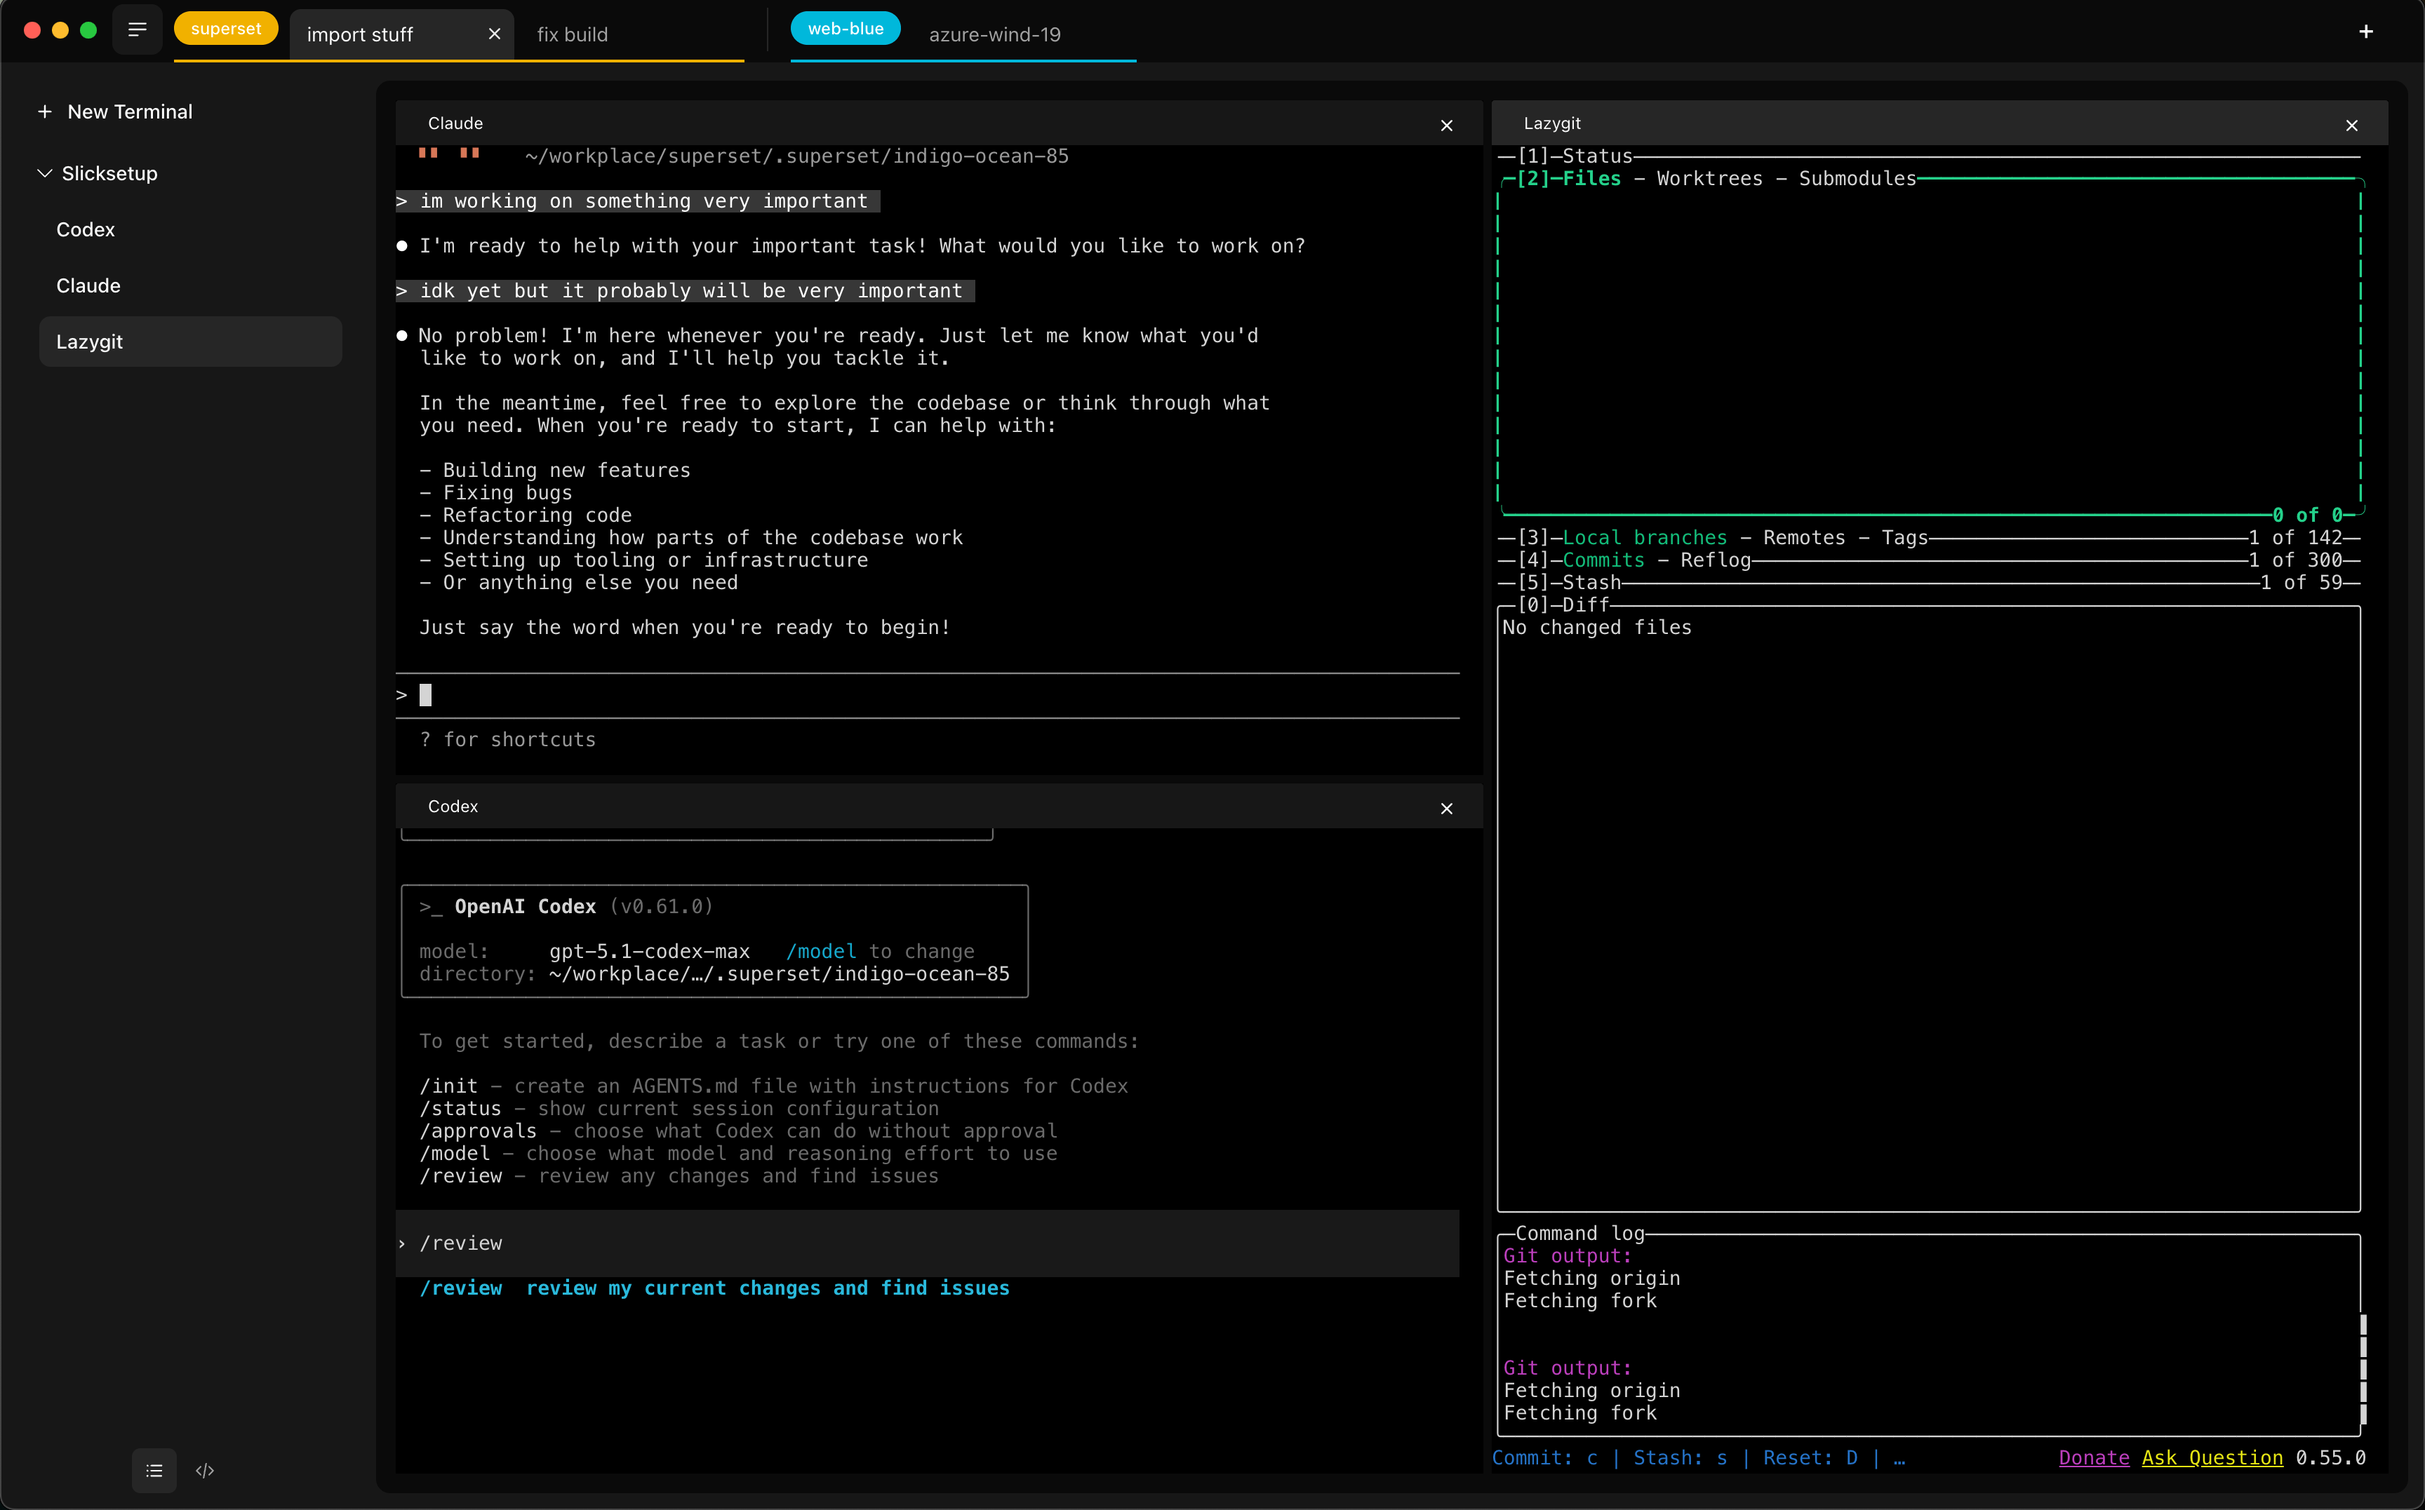
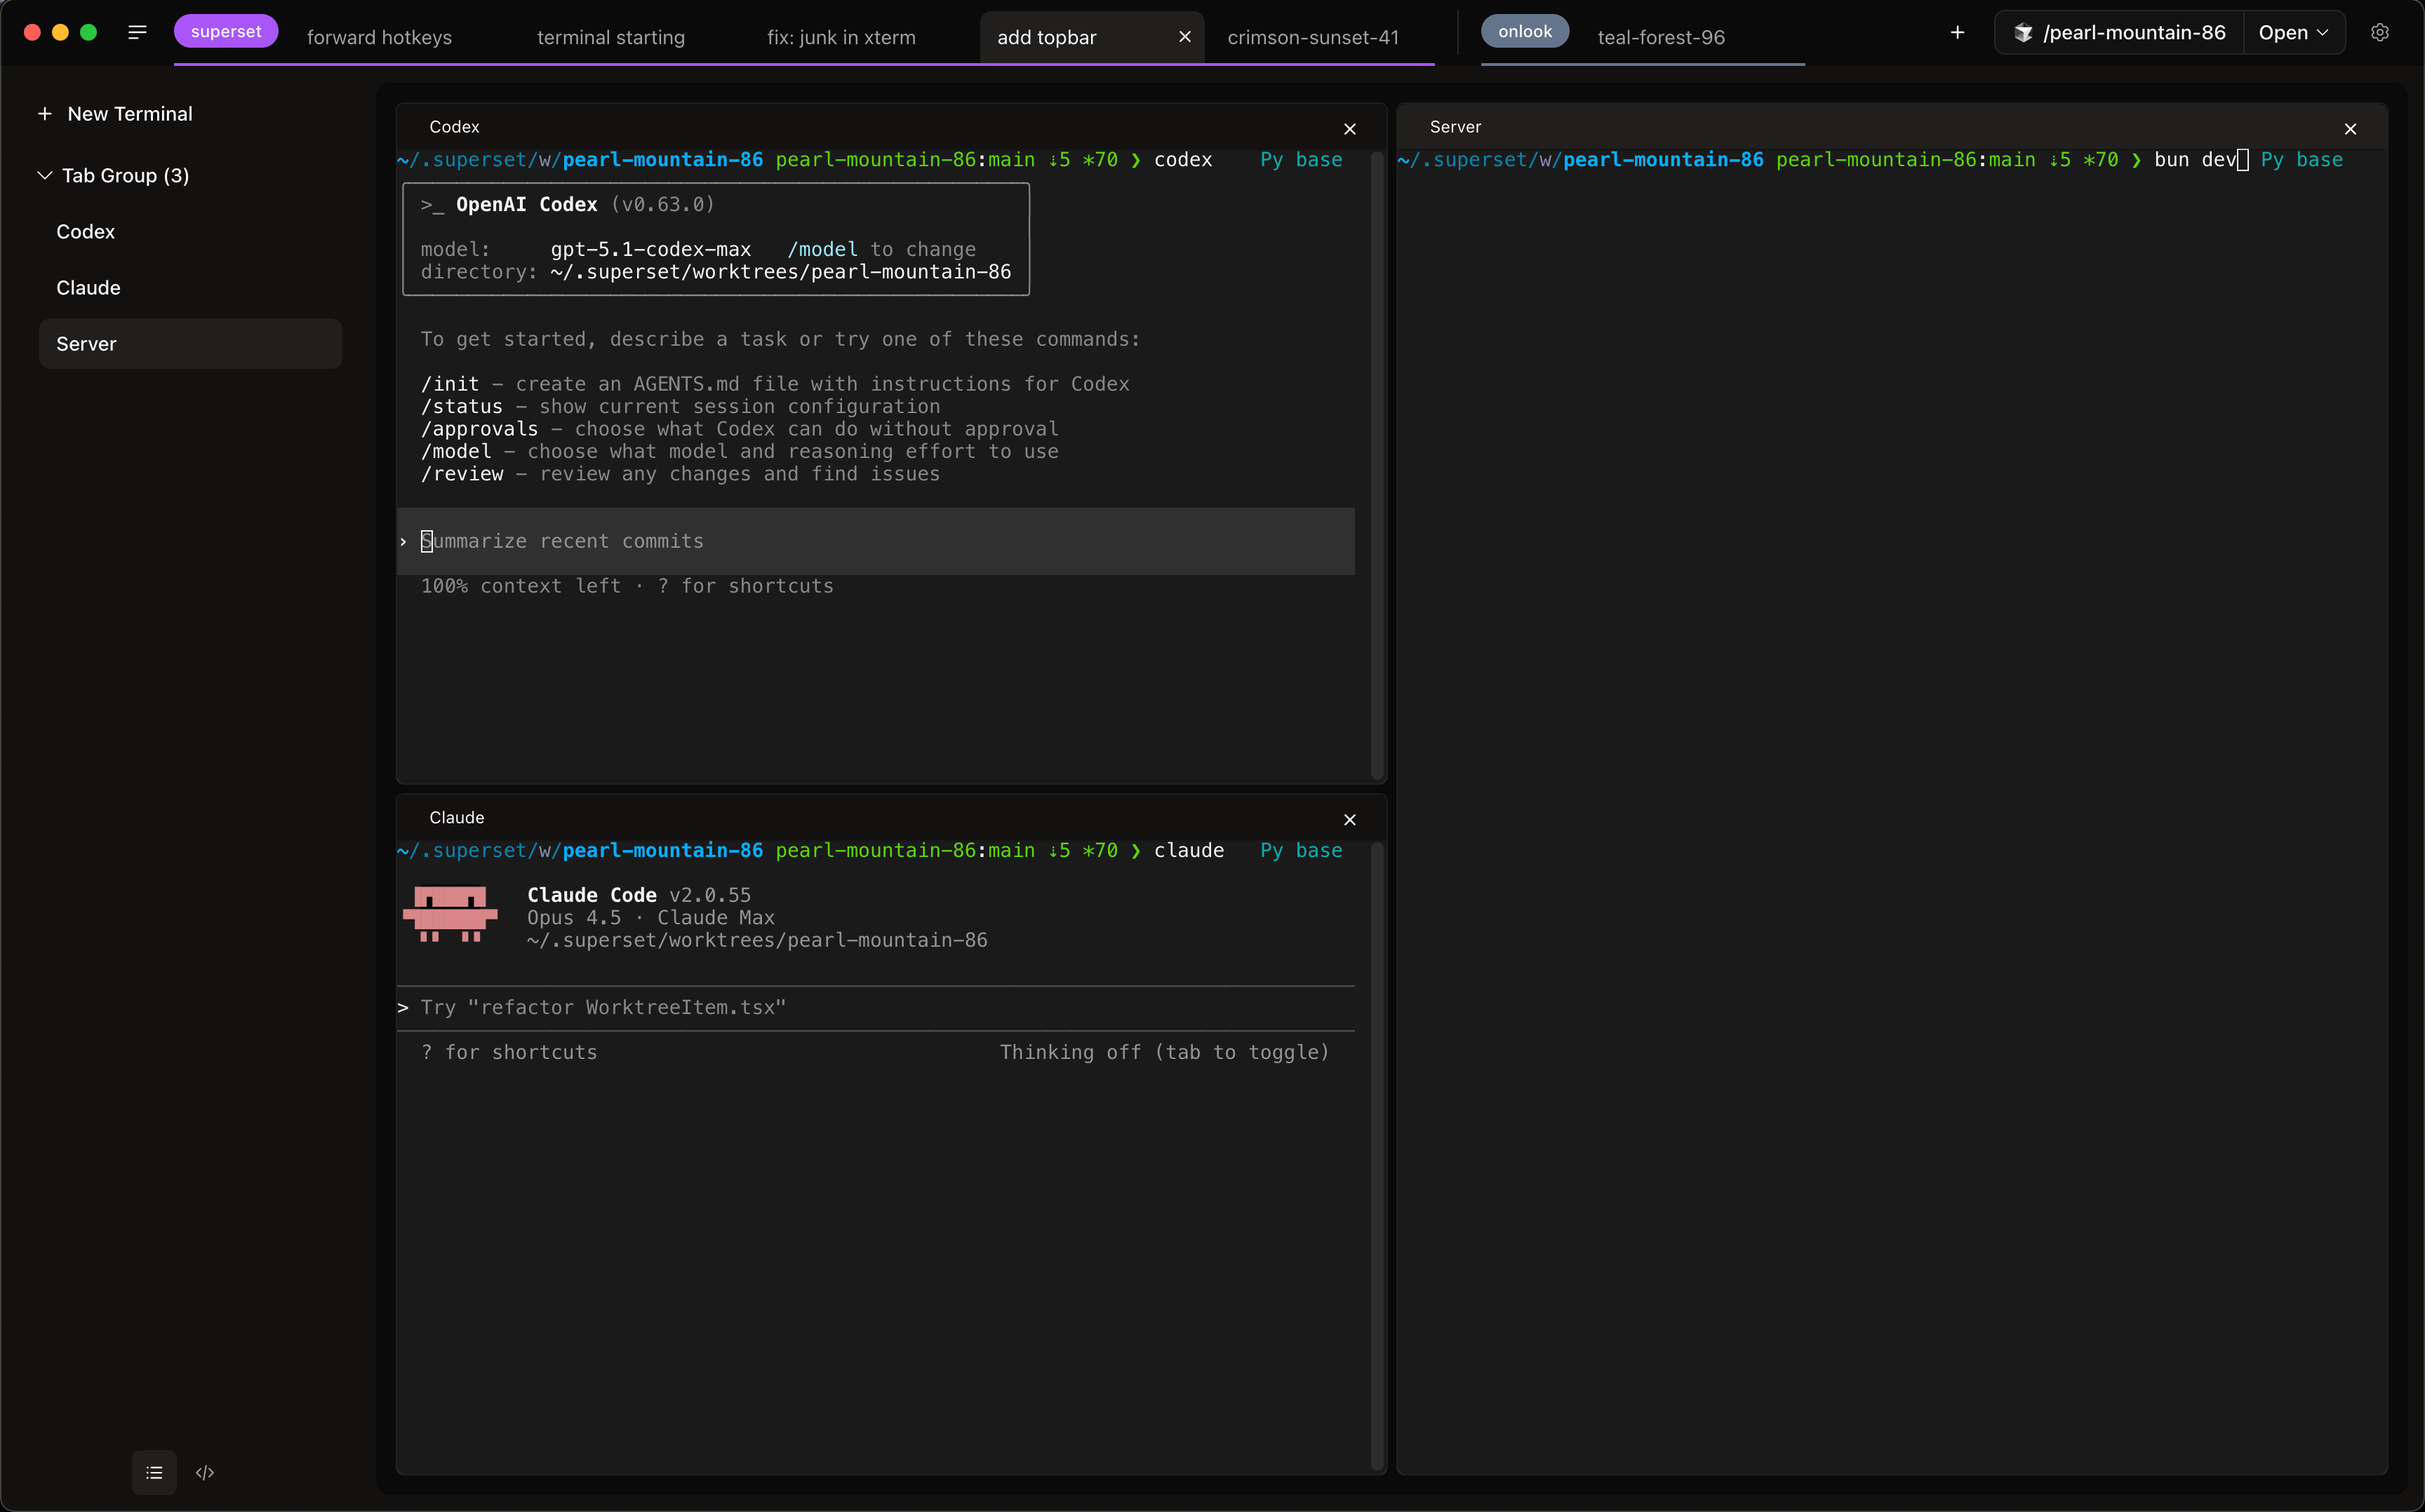
update website (#195)

diff --git a/apps/website/src/app/components/VideoSection/VideoSection.tsx b/apps/website/src/app/components/VideoSection/VideoSection.tsx
@@ -1,4 +1,5 @@
 import { motion } from "framer-motion";
+import Image from "next/image";
 
 export function VideoSection() {
 	return (
@@ -13,33 +14,12 @@ export function VideoSection() {
 				>
 					{/* Video placeholder */}
 					<div className="relative w-full aspect-video bg-zinc-900 rounded-lg overflow-hidden border border-zinc-800">
-						<div className="absolute inset-0 flex items-center justify-center">
-							<div className="text-center">
-								<svg
-									className="w-16 h-16 mx-auto mb-4 text-zinc-600"
-									fill="none"
-									stroke="currentColor"
-									viewBox="0 0 24 24"
-									aria-hidden="true"
-								>
-									<path
-										strokeLinecap="round"
-										strokeLinejoin="round"
-										strokeWidth={2}
-										d="M14.752 11.168l-3.197-2.132A1 1 0 0010 9.87v4.263a1 1 0 001.555.832l3.197-2.132a1 1 0 000-1.664z"
-									/>
-									<path
-										strokeLinecap="round"
-										strokeLinejoin="round"
-										strokeWidth={2}
-										d="M21 12a9 9 0 11-18 0 9 9 0 0118 0z"
-									/>
-								</svg>
-								<p className="text-zinc-500 text-sm sm:text-base">
-									Demo video coming soon
-								</p>
-							</div>
-						</div>
+						<Image
+							src="/example.png"
+							alt="Demo video"
+							fill
+							className="object-fit"
+						/>
 					</div>
 				</motion.div>
 			</div>

diff --git a/apps/website/src/app/components/WaitlistModal/WaitlistModal.tsx b/apps/website/src/app/components/WaitlistModal/WaitlistModal.tsx
@@ -60,18 +60,16 @@ export function WaitlistModal({ isOpen, onClose }: WaitlistModalProps) {
 					</button>
 
 					{/* Iframe container with fixed height to cut off branding */}
-					<div className="w-full h-[500px] overflow-hidden">
-						<iframe
-							src="https://tally.so/r/wv7Q0A"
-							width="100%"
-							height="650"
-							frameBorder="0"
-							marginHeight={0}
-							marginWidth={0}
-							title="Superset Waitlist"
-							className="w-full"
-						/>
-					</div>
+					<iframe
+						src="https://tally.so/r/wv7Q0A"
+						width="100%"
+						height="750px"
+						frameBorder="0"
+						marginHeight={0}
+						marginWidth={0}
+						title="Superset Waitlist"
+						className="w-full"
+					/>
 				</div>
 			</div>
 		</>

diff --git a/apps/website/src/app/layout.tsx b/apps/website/src/app/layout.tsx
@@ -6,9 +6,9 @@ import { TRPCReactProvider } from "@/trpc/react";
 import "./globals.css";
 
 export const metadata: Metadata = {
-	title: "Superset - The last developer tool you'll ever need",
+	title: "Superset - Run 10+ parallel coding agents on your machine",
 	description:
-		"The last developer tool you'll ever need. Work in parallel with always-on agents, zero switching cost, and bring your own tools.",
+		"Run 10+ parallel coding agents on your machine. Spin up new coding tasks while waiting for your current agent to finish. Quickly switch between tasks as they need your attention.",
 };
 
 export default function RootLayout({

diff --git a/apps/website/src/app/components/HeroSection/HeroSection.tsx b/apps/website/src/app/components/HeroSection/HeroSection.tsx
@@ -18,7 +18,7 @@ export function HeroSection() {
 				</FadeUp>
 				<FadeUp delay={0.2}>
 					<h2 className="text-lg sm:text-xl md:text-2xl font-thin px-4">
-						The last developer tool you'll ever need
+						Run 10+ parallel coding agents on your machine
 					</h2>
 				</FadeUp>
 			</div>
